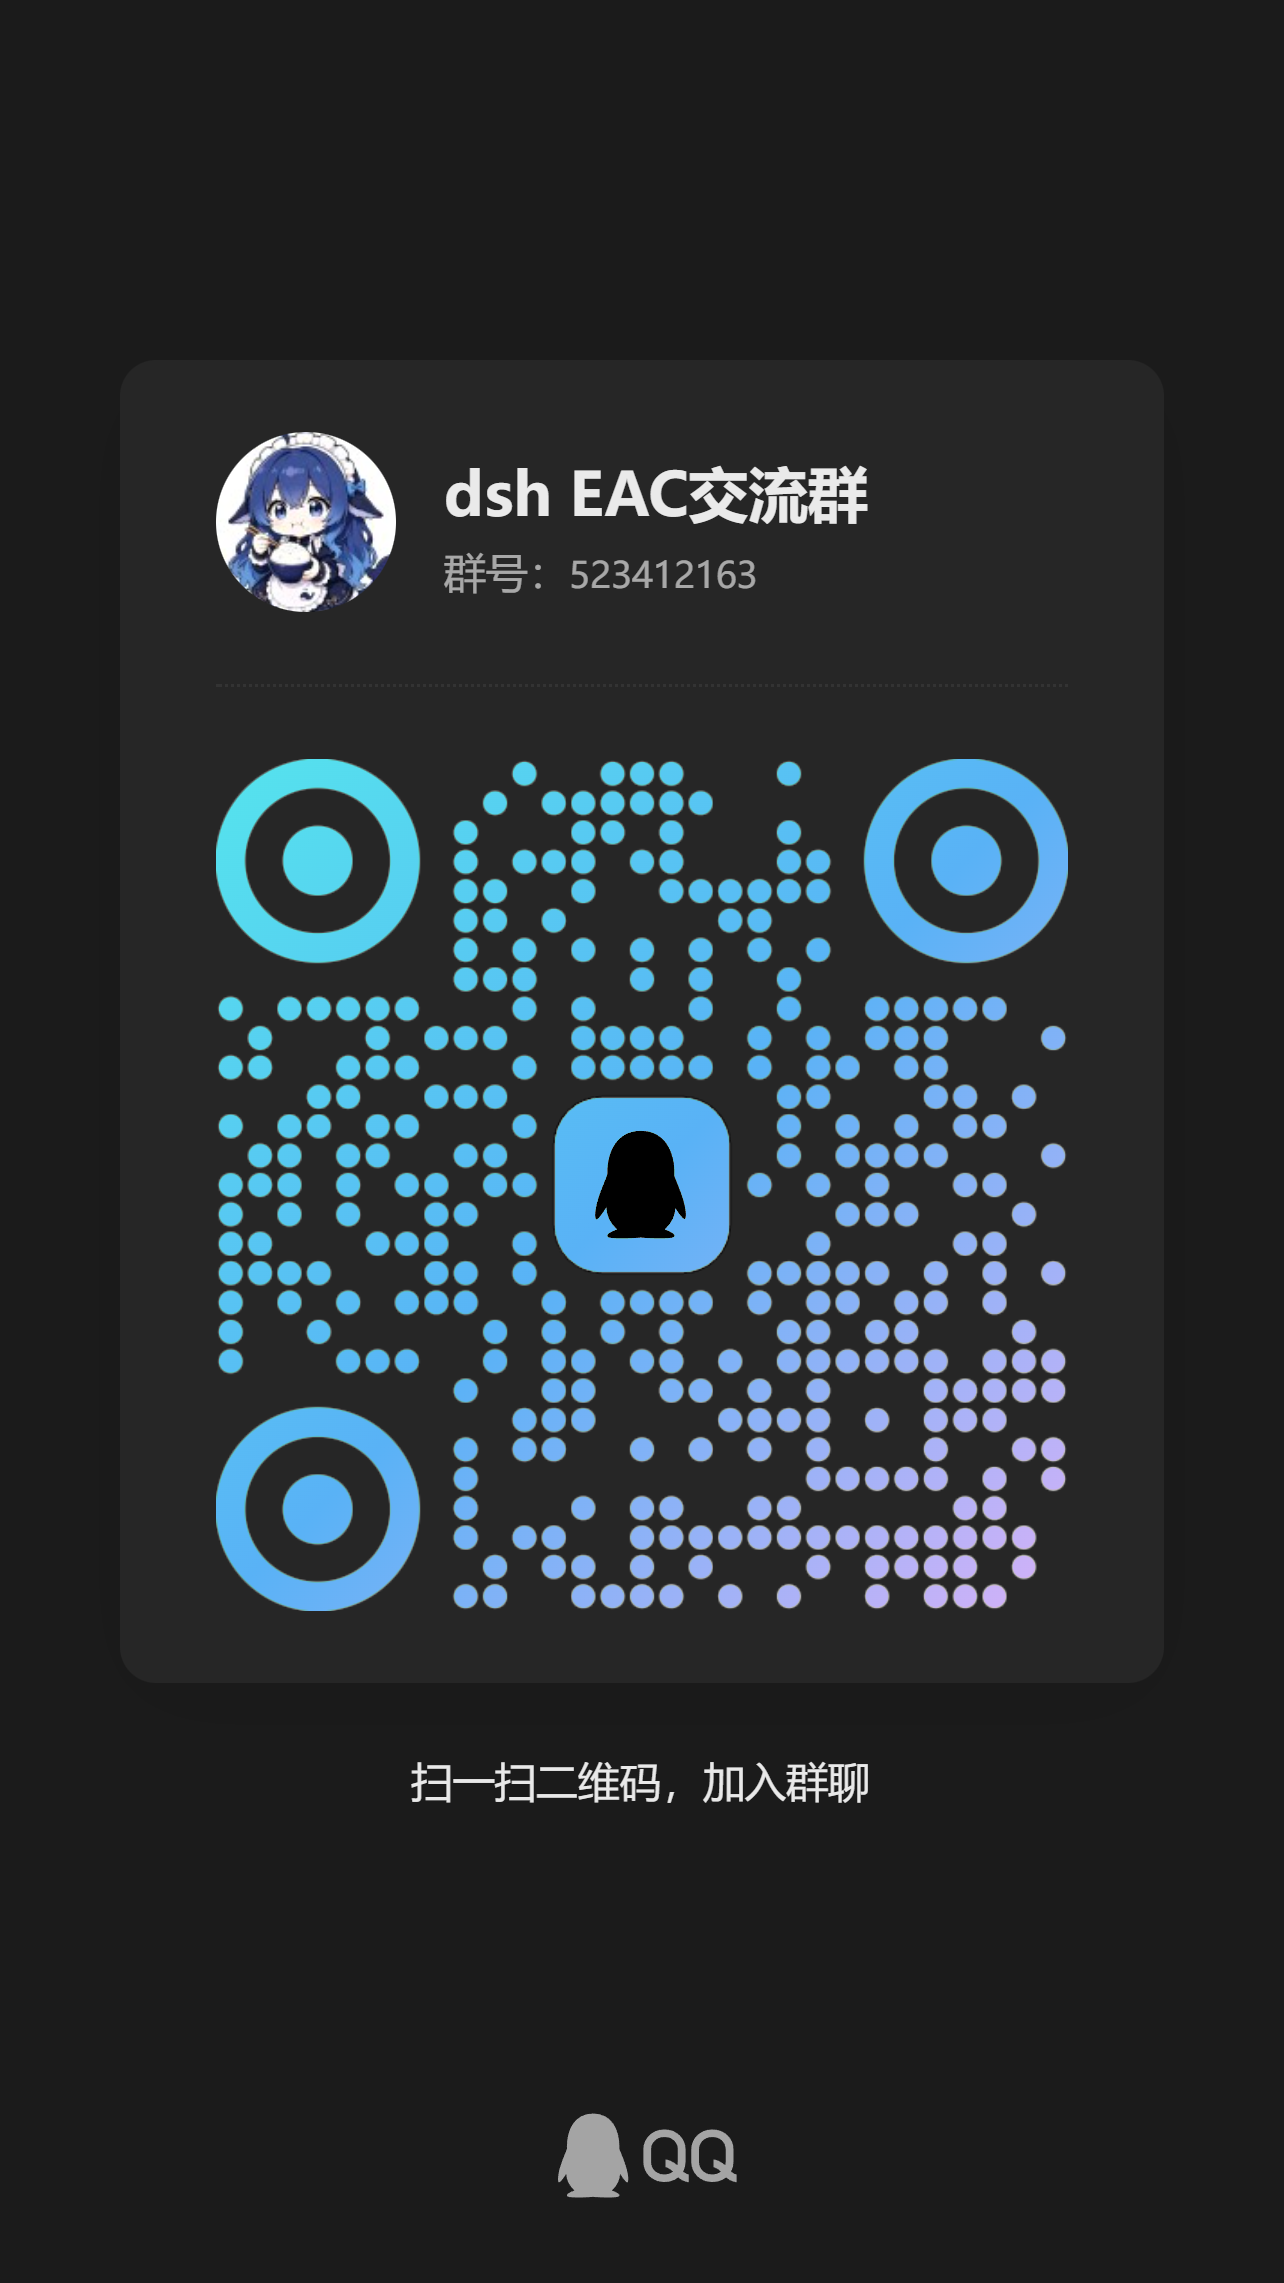
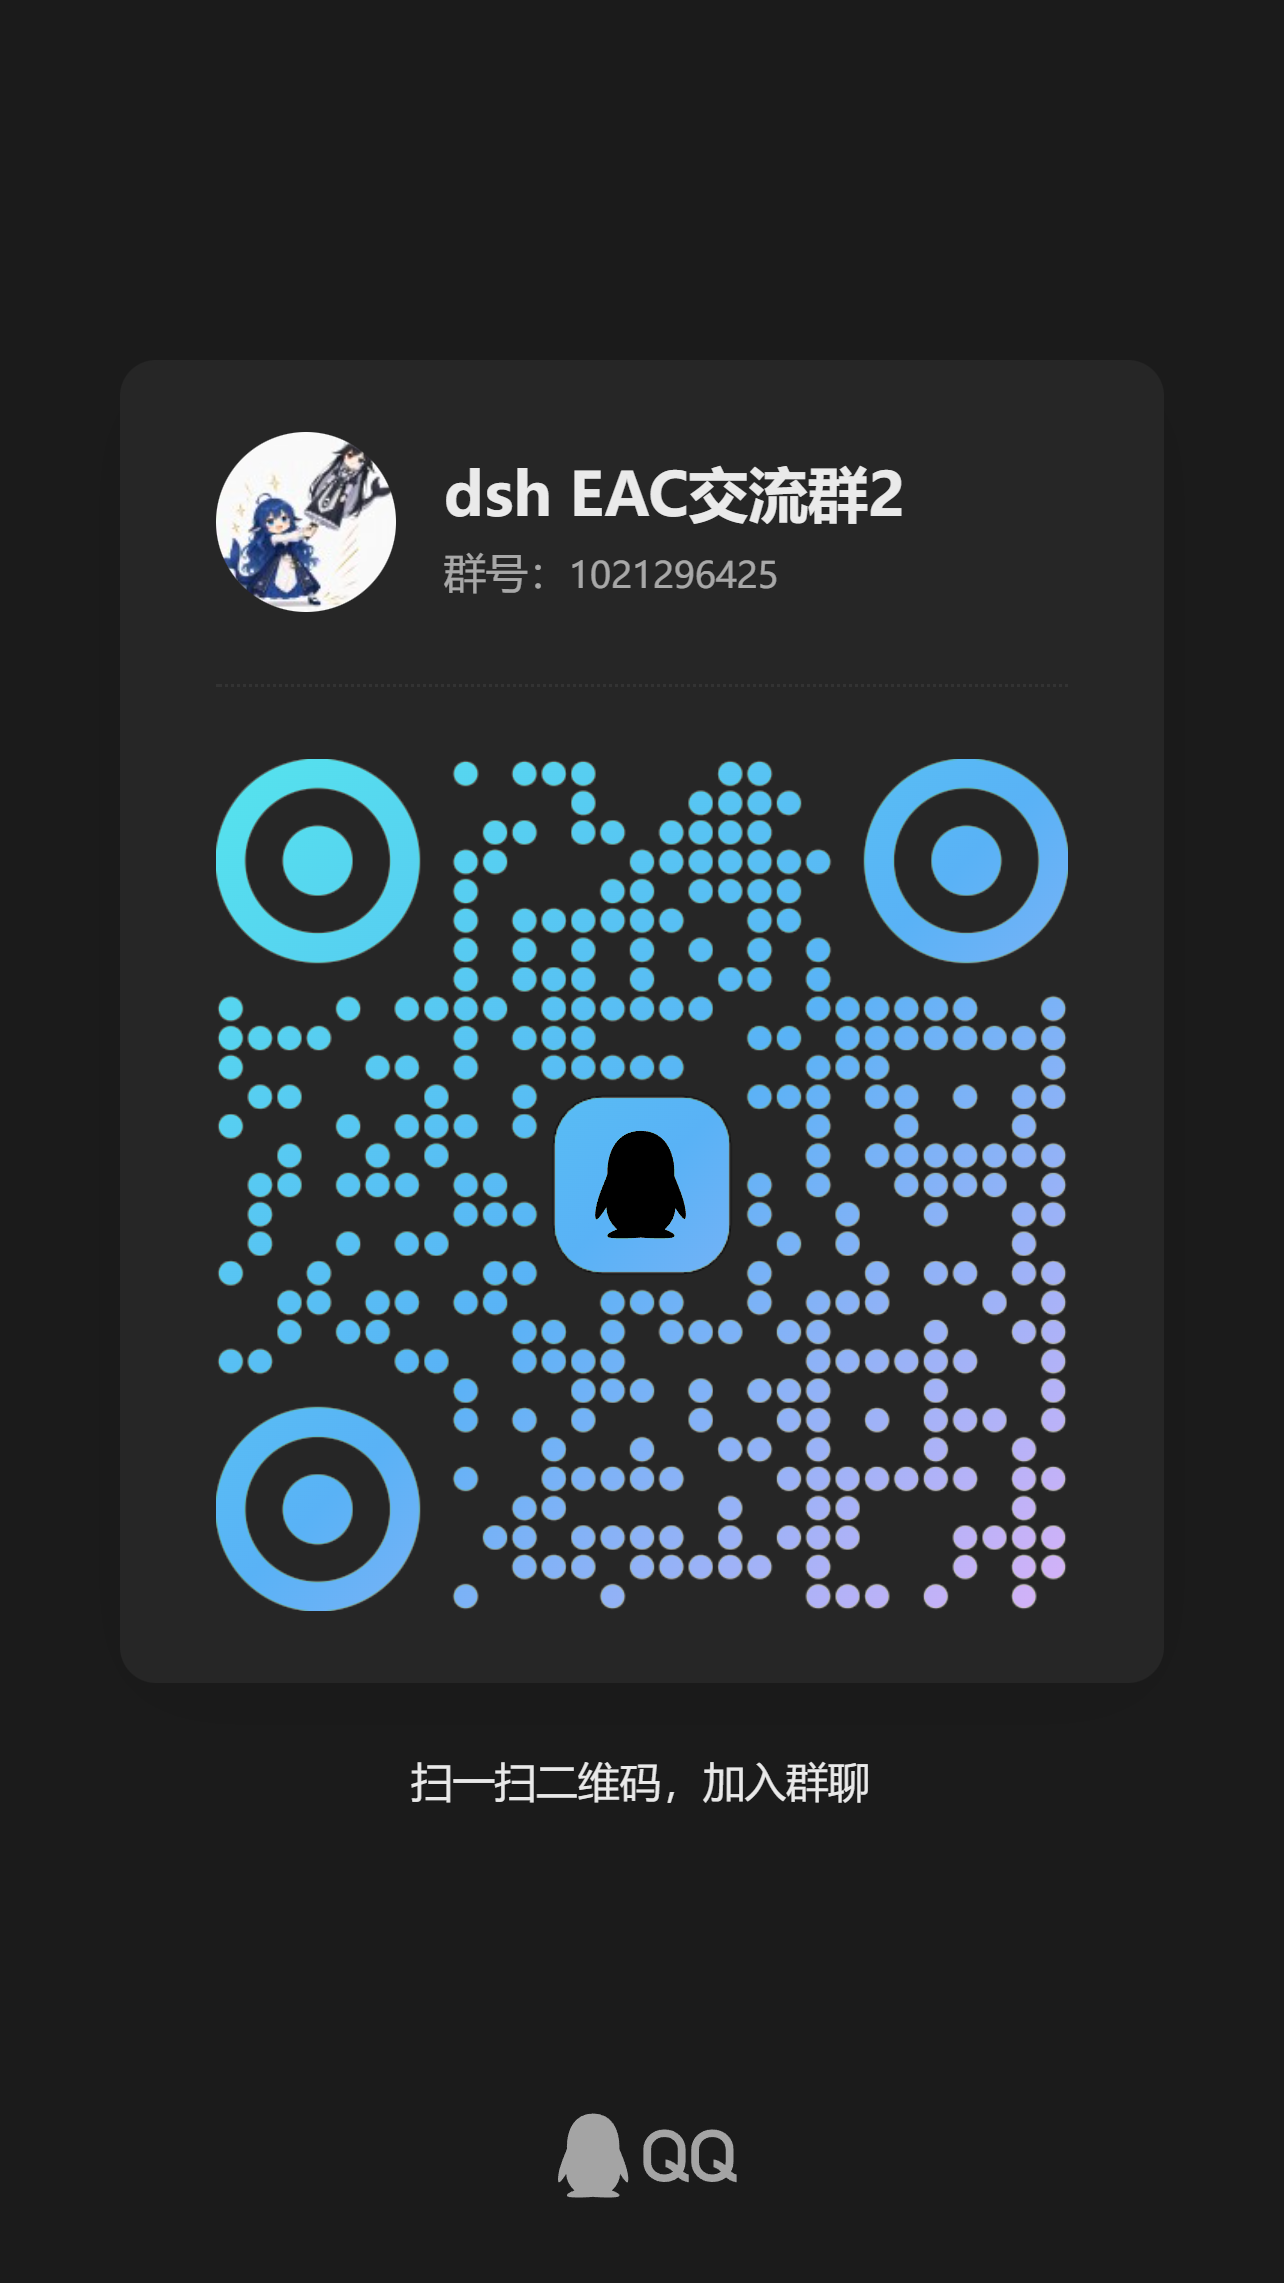
更改qq群入口

diff --git a/dsh-desktop/main.js b/dsh-desktop/main.js
@@ -2188,7 +2188,7 @@ async function showAbout() {
     message: 'Deepseek Harness EAC（封装版本 ' + APP_VERSION + '）',
     detail: 'DeepSeek Harness 桌面客户端\n\nagent 版本：' + dshVersion() + '（' + dshVersionSource() + '）\n数据目录：' + userDataDir + '\nDSH_HOME：' + (dshHome || '（dsh 默认）') +
       '\n\n项目仓库：\n  GitHub: ' + urls.github + '\n  Gitee:  ' + urls.gitee +
-      '\n\n交流群：EAC 交流群（群号 523412163）\n反馈问题：⋯ 菜单 → 反馈建议',
+      '\n\n交流群：dsh EAC 交流群 2（群号 1021296425）\n反馈问题：⋯ 菜单 → 反馈建议',
     buttons: ['复制 GitHub 地址', '复制 Gitee 地址', '确定'],
   });
   if (response === 0) clipboard.writeText(urls.github);

diff --git a/README.en.md b/README.en.md
@@ -206,6 +206,27 @@ Thanks to every contributor:
   </a>
 </p>
 
+### Community Groups
+
+<table>
+  <tr>
+    <td align="center" width="50%">
+      <img src="docs/qq-group-qrcode.jpg" alt="dsh EAC QQ Community Group 2 QR code" width="320" />
+    </td>
+    <td align="center" width="50%">
+      <img src="docs/wechat-group-qrcode.jpg" alt="dsh EAC WeChat community group QR code" width="320" />
+    </td>
+  </tr>
+  <tr>
+    <td align="center"><strong>QQ Community Group 2</strong><br />Group number: 1021296425</td>
+    <td align="center"><strong>WeChat Community Group</strong></td>
+  </tr>
+</table>
+
+### Bug Reports
+
+To report a bug or request a feature, visit [https://eac.dtyg123.dpdns.org/](https://eac.dtyg123.dpdns.org/).
+
 
 ## Star History
 

diff --git a/README.md b/README.md
@@ -259,14 +259,14 @@ research/                     # 第三方微信/桥接协议调研资料
 <table>
   <tr>
     <td align="center" width="50%">
-      <img src="docs/qq-group-qrcode.jpg" alt="dsh EAC QQ 交流群二维码" width="320" />
+      <img src="docs/qq-group-qrcode.jpg" alt="dsh EAC QQ 交流群 2 二维码" width="320" />
     </td>
     <td align="center" width="50%">
       <img src="docs/wechat-group-qrcode.jpg" alt="dsh EAC 微信交流群二维码" width="320" />
     </td>
   </tr>
   <tr>
-    <td align="center"><strong>QQ 交流群</strong><br />群号：523412163</td>
+    <td align="center"><strong>QQ 交流群 2</strong><br />群号：1021296425</td>
     <td align="center"><strong>微信交流群</strong></td>
   </tr>
 </table>
